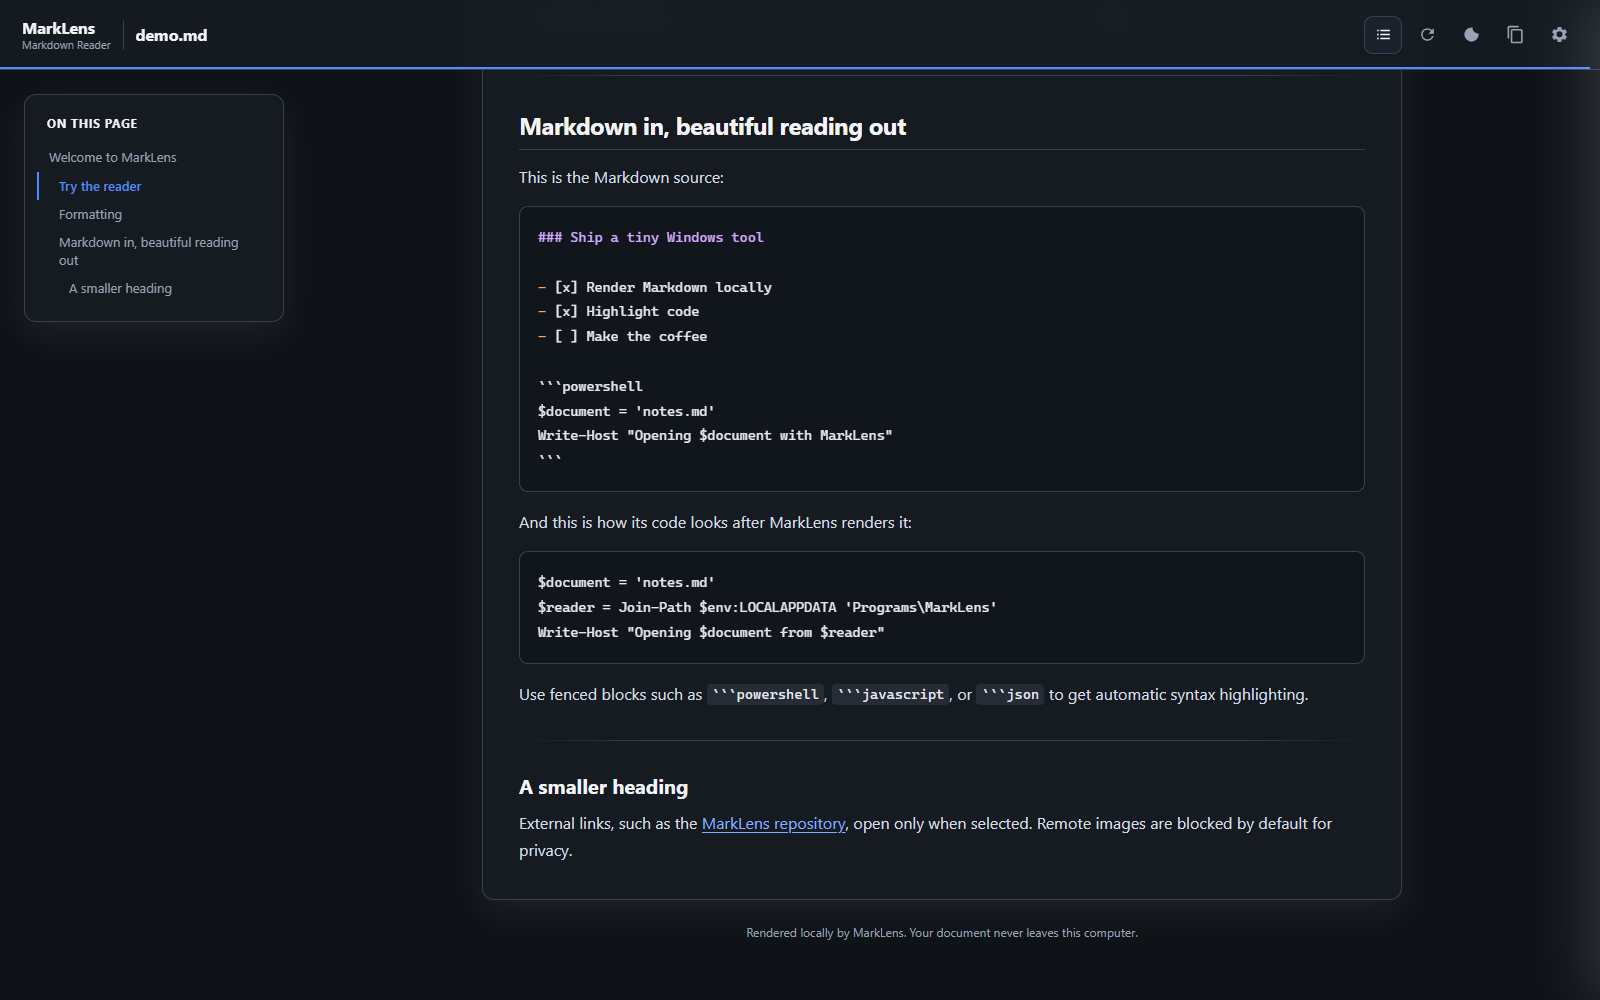
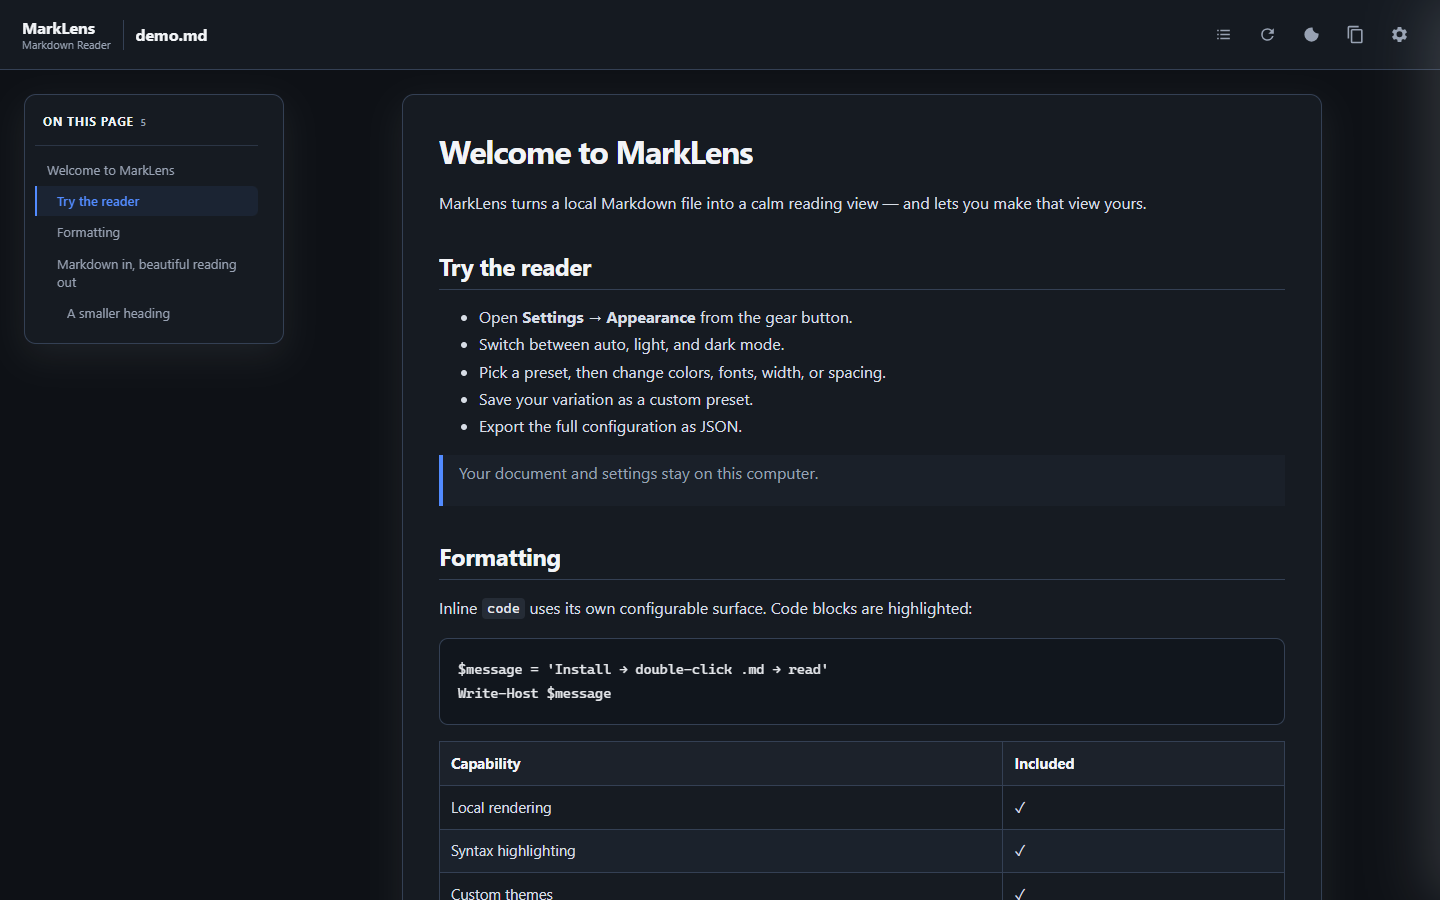
docs: prepare MarkLens 1.0.1 release
Document the Windows-owned default-app confirmation step, refresh the dark reader screenshot, and align the package metadata, changelog, and download links with the patch release.

diff --git a/README.md b/README.md
@@ -2,7 +2,7 @@
 
 > **A free, open-source Markdown reader and Markdown viewer for Windows 10 and 11.**
 
-[![Download MarkLens for Windows](https://img.shields.io/badge/Download_for_Windows-MarkLens_1.0.0-2563eb?style=for-the-badge&logo=windows11)](https://github.com/KonradKazimierowicz/MarkLens/releases/latest/download/MarkLens-Setup-v1.0.0.exe)
+[![Download MarkLens for Windows](https://img.shields.io/badge/Download_for_Windows-MarkLens_1.0.1-2563eb?style=for-the-badge&logo=windows11)](https://github.com/KonradKazimierowicz/MarkLens/releases/latest/download/MarkLens-Setup-v1.0.1.exe)
 
 ![Windows 10 and 11](https://img.shields.io/badge/Windows-10%20%7C%2011-2563eb?style=flat-square)
 ![PowerShell 5.1+](https://img.shields.io/badge/PowerShell-5.1%2B-334155?style=flat-square)
@@ -15,13 +15,13 @@ No account, advertisements, telemetry, cloud storage, administrator rights, or i
 
 ## Start in three steps
 
-1. [Download `MarkLens-Setup-v1.0.0.exe`](https://github.com/KonradKazimierowicz/MarkLens/releases/latest/download/MarkLens-Setup-v1.0.0.exe).
-2. Run the installer.
-3. Double-click any `.md` or `.markdown` file.
+1. [Download `MarkLens-Setup-v1.0.1.exe`](https://github.com/KonradKazimierowicz/MarkLens/releases/latest/download/MarkLens-Setup-v1.0.1.exe).
+2. Run the installer, then choose MarkLens for `.md` and `.markdown` on the Windows Default Apps page that opens.
+3. Double-click any Markdown file.
 
 Windows may ask which application should open Markdown the first time. Choose **MarkLens** and enable **Always**.
 
-> The version 1.0 installer is unsigned. SmartScreen may show a warning, while Smart App Control can block unsigned apps entirely. Verify the [SHA-256 checksum](https://github.com/KonradKazimierowicz/MarkLens/releases/latest/download/MarkLens-Setup-v1.0.0.exe.sha256) and read [Troubleshooting](docs/TROUBLESHOOTING.md).
+> The version 1.0 installer is unsigned. SmartScreen may show a warning, while Smart App Control can block unsigned apps entirely. Verify the [SHA-256 checksum](https://github.com/KonradKazimierowicz/MarkLens/releases/latest/download/MarkLens-Setup-v1.0.1.exe.sha256) and read [Troubleshooting](docs/TROUBLESHOOTING.md).
 
 Need more detail? Read the [installation guide](docs/INSTALLATION.md) or [troubleshooting guide](docs/TROUBLESHOOTING.md).
 
@@ -63,7 +63,7 @@ The included [demo document](sample/demo.md) shows raw Markdown beside its rende
 - [x] Highlight fenced code
 
 ```powershell
-Get-FileHash .\MarkLens-Setup-v1.0.0.exe -Algorithm SHA256
+Get-FileHash .\MarkLens-Setup-v1.0.1.exe -Algorithm SHA256
 ```
 ````
 

diff --git a/docs/INSTALLATION.md b/docs/INSTALLATION.md
@@ -2,20 +2,21 @@
 
 ## Recommended: Windows installer
 
-1. [Download the latest MarkLens installer](https://github.com/KonradKazimierowicz/MarkLens/releases/latest/download/MarkLens-Setup-v1.0.0.exe).
-2. Run `MarkLens-Setup-v1.0.0.exe`.
-3. Double-click any `.md` or `.markdown` file.
+1. [Download the latest MarkLens installer](https://github.com/KonradKazimierowicz/MarkLens/releases/latest/download/MarkLens-Setup-v1.0.1.exe).
+2. Run `MarkLens-Setup-v1.0.1.exe`.
+3. Windows opens the MarkLens file-default page. Choose MarkLens for both `.md` and `.markdown`.
+4. Double-click any Markdown file.
 
 MarkLens installs for the current Windows user. Administrator rights are not required.
 
-Windows may ask which application should open Markdown the first time. Choose **MarkLens** and enable **Always**.
+Windows deliberately requires this one-time confirmation; applications cannot silently replace your default file handlers. You can reopen the same page later from **Settings → Appearance → Reader behavior → Set MarkLens as default**.
 
 ## Verify the download
 
-Download the accompanying [SHA-256 checksum](https://github.com/KonradKazimierowicz/MarkLens/releases/latest/download/MarkLens-Setup-v1.0.0.exe.sha256), then run:
+Download the accompanying [SHA-256 checksum](https://github.com/KonradKazimierowicz/MarkLens/releases/latest/download/MarkLens-Setup-v1.0.1.exe.sha256), then run:
 
 ```powershell
-Get-FileHash .\MarkLens-Setup-v1.0.0.exe -Algorithm SHA256
+Get-FileHash .\MarkLens-Setup-v1.0.1.exe -Algorithm SHA256
 ```
 
 Compare the displayed hash with the value in the `.sha256` file.
@@ -25,8 +26,10 @@ Compare the displayed hash with the value in the `.sha256` file.
 Use this command for an unattended, per-user installation:
 
 ```powershell
-.\MarkLens-Setup-v1.0.0.exe /Q:U
+.\MarkLens-Setup-v1.0.1.exe /Q:U
 ```
+
+Silent installation registers MarkLens as an available handler but does not open Windows Settings. File defaults must still be confirmed by the signed-in user.
 
 ## Update
 

diff --git a/CHANGELOG.md b/CHANGELOG.md
@@ -2,6 +2,26 @@
 
 All notable changes follow [Keep a Changelog](https://keepachangelog.com/en/1.1.0/) and semantic versioning.
 
+## [1.0.1] - 2026-08-27
+
+### Added
+
+- MarkLens-specific Windows Default Apps flow after interactive installation and from Reader behavior settings.
+- Friendly MarkLens name and icon registration for the Windows file-handler chooser.
+- Real-browser responsive coverage at 320, 390, 768, 1024, and 1440 pixel widths.
+
+### Changed
+
+- The reader toolbar now auto-hides by default while retaining the reading-progress strip and revealing itself at the top edge, on upward scrolling, or keyboard focus.
+- The table of contents has a clearer active state, section count, mobile close control, and a dedicated touch-friendly scroll surface.
+- The browser favicon now uses the same packaged, multi-size blue-to-teal icon as the Windows application.
+
+### Fixed
+
+- Mobile table of contents could remain `display: none` when the desktop preference was disabled.
+- Long tables of contents could not scroll reliably on small screens.
+- `.md` files could continue opening the Windows app chooser because registration alone cannot confirm a user default.
+
 ## [1.0.0] - 2026-08-27
 
 ### Added

diff --git a/docs/RELEASE_CHECKLIST.md b/docs/RELEASE_CHECKLIST.md
@@ -4,7 +4,7 @@
 
 - [ ] `VERSION`, tag, installer name, and changelog version match.
 - [ ] No organization-specific source branding remains.
-- [ ] Default install → double-click `.md` → read flow works on Windows 10 and Windows 11.
+- [ ] Interactive install opens the MarkLens Default Apps page; after one-time user confirmation, double-click `.md` → read works on Windows 10 and Windows 11.
 - [ ] `.markdown` behaves the same as `.md`.
 - [ ] Edge app mode and default-browser fallback both work.
 - [ ] Appearance changes are live and persist after closing/reopening.
@@ -30,7 +30,7 @@
 - [ ] Review README download/install/developer/build instructions.
 - [ ] Confirm repository description, topics, MIT license detection, Issues, Discussions (if desired), and Security Advisories.
 - [ ] Run the complete test suite, vendor verification, and installer build locally from a clean checkout.
-- [ ] Push an annotated `v1.0.0` tag.
+- [ ] Push an annotated tag matching `VERSION`.
 - [ ] Create the GitHub Release manually from the annotated tag.
 - [ ] Confirm the GitHub Release contains the EXE and `.sha256` file.
 - [ ] Test the downloaded release artifact on a clean Windows user profile.

diff --git a/docs/TROUBLESHOOTING.md b/docs/TROUBLESHOOTING.md
@@ -12,6 +12,8 @@ Until a signed build is available, use the [source launch instructions](INSTALLA
 
 ## Markdown still opens in another application
 
+Open any document in MarkLens, select the gear icon, then choose **Reader behavior → Set MarkLens as default**. Windows opens the MarkLens-specific Default Apps page; assign both `.md` and `.markdown` there.
+
 Right-click a `.md` file and choose **Open with → Choose another app → MarkLens → Always**.
 
 You can also open **Windows Settings → Apps → Default apps**, search for `.md` and `.markdown`, and select MarkLens for both extensions.
